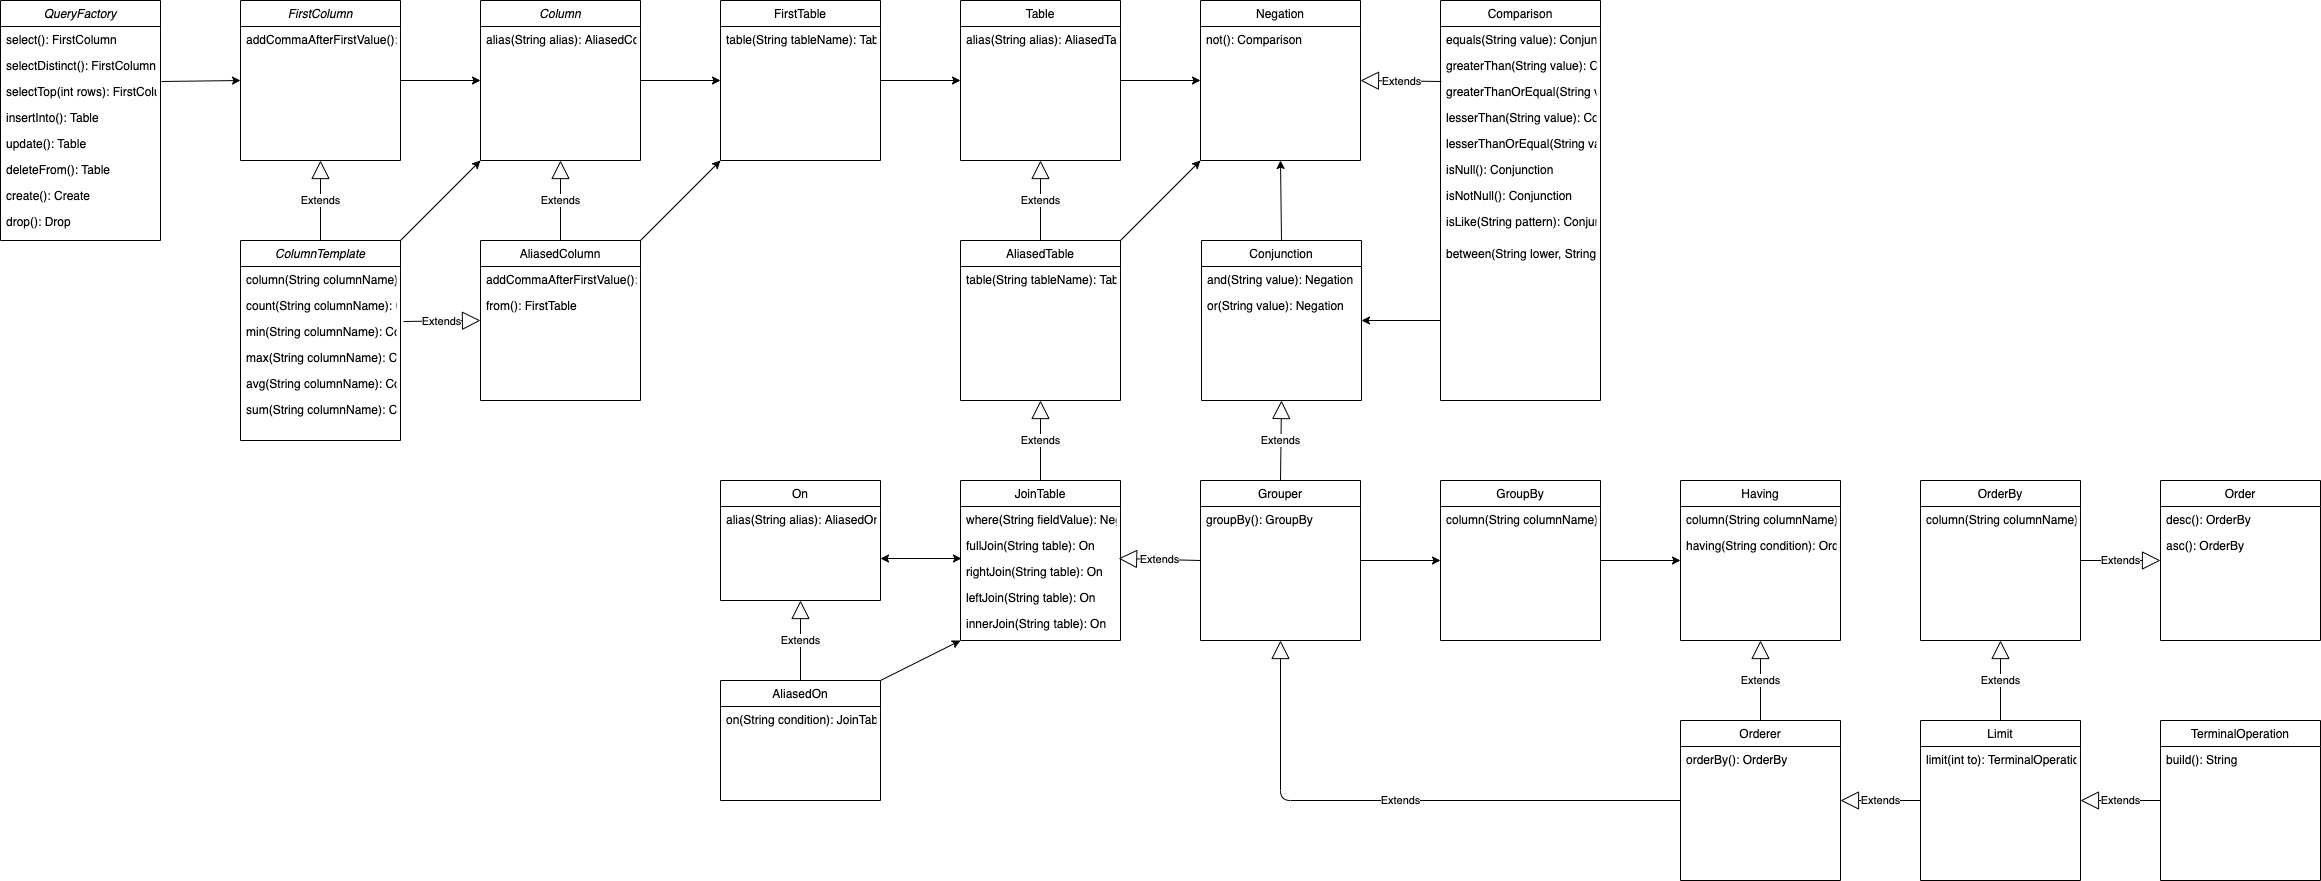
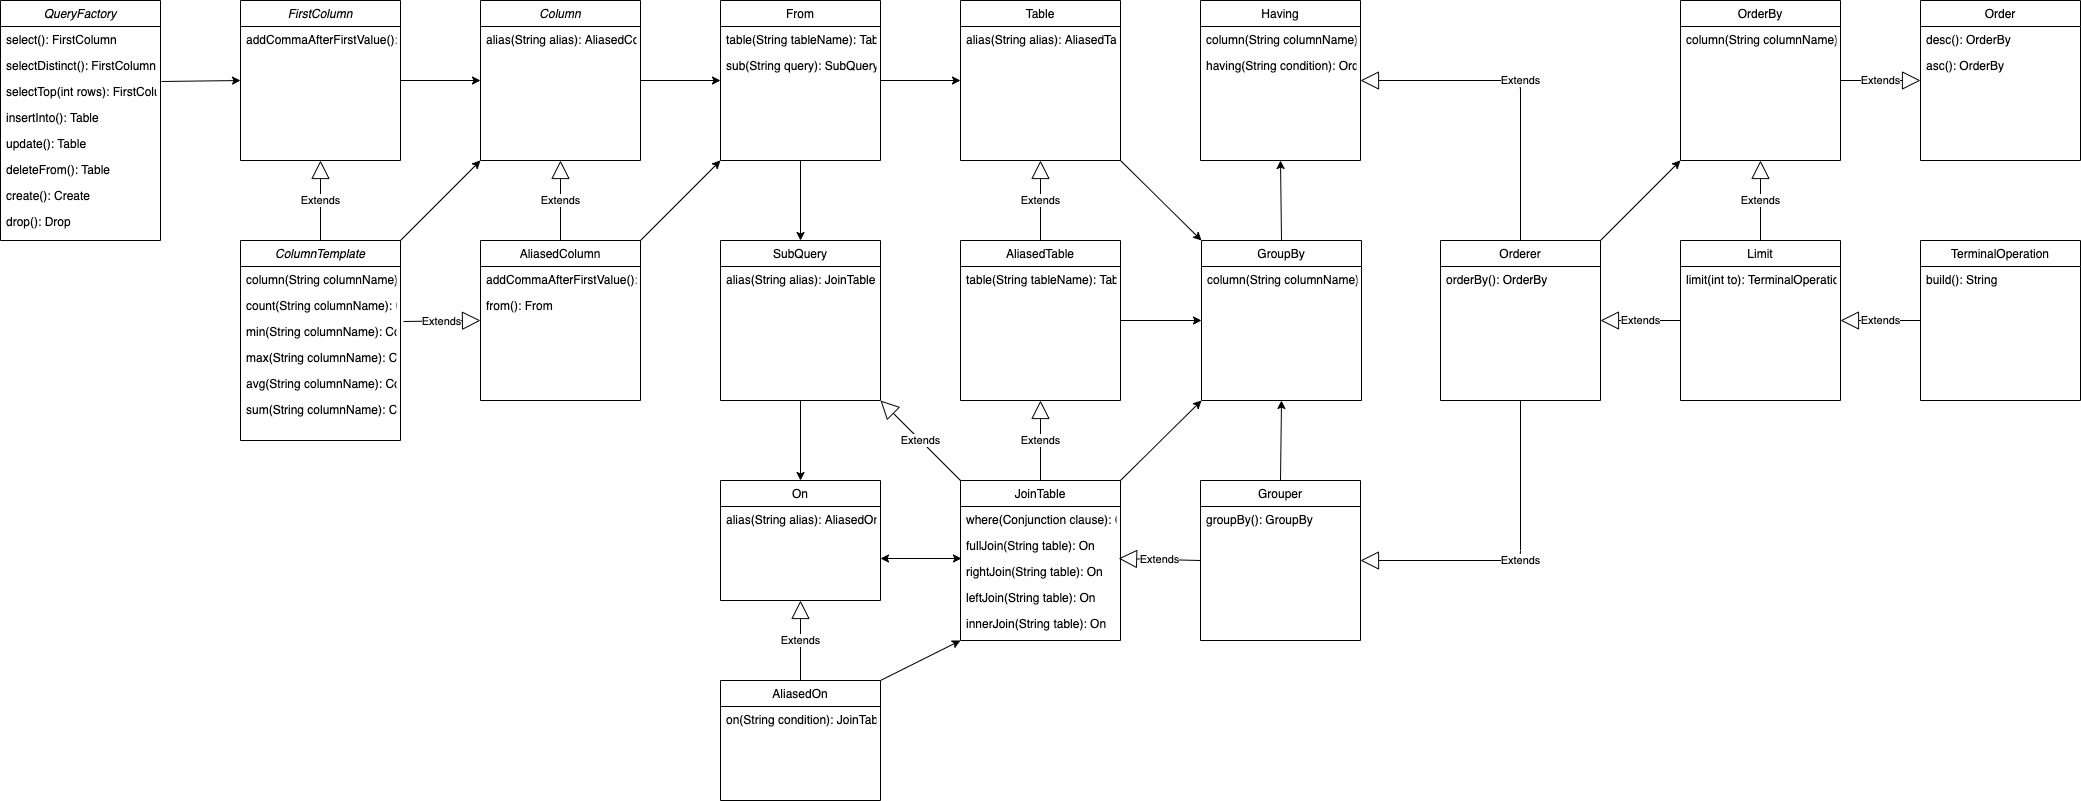
updated examples and design docs and refactored SubQuery

diff --git a/src/test/java/builder/statement/insert/InsertTest.java b/src/test/java/builder/statement/insert/InsertTest.java
@@ -61,7 +61,6 @@ public class InsertTest extends DatabaseTestBaseClass {
                         .from()
                             .table("student")
                         .where(valueOf("age").greaterThan(18))
-                        .build()
                 )
                 .build();
 
@@ -101,7 +100,6 @@ public class InsertTest extends DatabaseTestBaseClass {
                         .from()
                             .table("student")
                         .where(valueOf("age").lesserThan(18))
-                        .build()
                 )
                 .build();
 

diff --git a/src/main/java/builder/statement/select/table/From.java b/src/main/java/builder/statement/select/table/From.java
@@ -1,5 +1,6 @@
 package builder.statement.select.table;
 
+import builder.Builder;
 import builder.SQLStringBuilder;
 
 public class From extends SQLStringBuilder {
@@ -13,9 +14,9 @@ public class From extends SQLStringBuilder {
         return new Table(this.builder);
     }
 
-    public SubQuery sub(String query) {
+    public SubQuery sub(Builder query) {
         append("(");
-        append(query);
+        append(query.build());
         append(")");
         return new SubQuery(this.builder);
     }

diff --git a/src/main/java/builder/statement/insert/Column.java b/src/main/java/builder/statement/insert/Column.java
@@ -1,5 +1,6 @@
 package builder.statement.insert;
 
+import builder.Builder;
 import builder.SQLStringBuilder;
 import builder.TerminalOperation;
 
@@ -14,8 +15,8 @@ public class Column extends SQLStringBuilder {
         return new FirstValue(this.builder);
     }
 
-    public TerminalOperation sub(String query) {
-        append(query);
+    public TerminalOperation sub(Builder query) {
+        append(query.build());
         return new TerminalOperation(this.builder);
     }
 }

diff --git a/src/main/java/builder/SQLStringBuilder.java b/src/main/java/builder/SQLStringBuilder.java
@@ -24,16 +24,7 @@ public abstract class SQLStringBuilder {
         this.builder = this.builder.insert(index, value);
     }
 
-    protected int firstIndexOfRightBracket() {
-        return this.builder.indexOf(")");
-    }
-
-    protected int firstIndexOfLeftBracket() {
-        return this.builder.indexOf("(");
-    }
-
     protected int lastIndexOfRightBracket() {
         return this.builder.lastIndexOf(")");
     }
-
 }

diff --git a/src/test/java/builder/statement/select/table/TableTest.java b/src/test/java/builder/statement/select/table/TableTest.java
@@ -57,7 +57,6 @@ public class TableTest extends DatabaseTestBaseClass {
                             .from()
                                 .table("person")
                             .where(valueOf("age").greaterThan(20))
-                            .build()
                     )
                 .alias("p")
                 .build();

diff --git a/docs/examples.md b/docs/examples.md
@@ -1,0 +1,149 @@
+# Examples
+
+## SELECT
+
+Basic example:
+
+    String query = QueryFactory
+        .select()
+            .column("firstname").alias("first")
+            .column("lastname").alias("last")
+            .column("age")
+        .from()
+            .table("person")
+        .where(valueOf("age").greaterThan(18))
+        .build();
+
+    logger.info(query)
+
+Above code prints out:
+
+    SELECT firstname AS first, lastname AS last, age
+    FROM person
+    WHERE age > 18
+
+More complex example with joins:
+
+    String query = QueryFactory
+        .select()
+            .column("p.id")
+            .column("p.age")
+            .column("p.firstname").alias("name")
+            .column("c.name").alias("course")
+        .from()
+            .table("person").alias("p")
+        .leftJoin("course").alias("c")
+            .on("p.id = c.person_id")
+        .where(valueOf("p.age").greaterThan(18)
+            .and("p.age").lesserThan(65)
+            .and("c.name").isNotNull())
+        .orderBy()
+            .column("p.age").desc()
+        .limit(100)
+        .build();
+
+        logger.info(query);
+
+Above code prints out:
+
+    SELECT p.id, p.age, p.firstname AS name, c.name AS course
+    FROM person AS p
+    LEFT JOIN course AS c ON p.id = c.person_id
+    WHERE p.age > 18
+    AND p.age < 65
+    AND c.name IS NOT NULL
+    ORDER BY p.age DESC
+    LIMIT 100
+
+Example with aggregate functions:
+
+    String query = QueryFactory
+        .select()
+            .column("s.name").alias("school")
+            .avg("c.difficulty").alias("avgDifficulty")
+        .from()
+            .table("school").alias("s")
+        .innerJoin("course").alias("c").on("s.id = c.school_id")
+        .groupBy()
+            .column("school")
+        .having("avgDifficulty > 1")
+        .build();
+
+        logger.info(query);
+
+Above code prints out:
+
+    SELECT s.name AS school, AVG(c.difficulty) AS avgDifficulty
+    FROM school AS s
+    INNER JOIN course AS c ON s.id = c.school_id
+    GROUP BY school
+    HAVING avgDifficulty > 1
+
+Sub-queries can be made by using `QueryFactory` to build sub-query:
+
+    String query = QueryFactory
+        .select()
+            .column("*")
+        .from()
+            .sub(QueryFactory
+                .select()
+                    .column("*")
+                .from()
+                    .table("person")
+                .where(valueOf("age).greaterThan(20)))
+                .alias("p")
+        .build();
+
+This prints out:
+
+    SELECT *
+    FROM (
+        SELECT *
+        FROM person
+        WHERE age > 20
+    ) AS p
+
+## INSERT INTO
+
+Basic example:
+
+    String query = QueryFactory
+        .insertInto()
+            .table("person")
+                .columns("id", "birthdate", "firstname", "lastname", "age")
+            .values()
+                .value(101)
+                .value("1980-04-12")
+                .value("Miika")
+                .value("Somero")
+                .value(40)
+            .build();
+
+        logger.info(query);
+
+Prints out:
+
+    INSERT INTO person (id, birthdate, firstname, lastname, age)
+    VALUES (101, '1980-04-12', 'Miika', 'Somero', 40)
+
+Insert into select example:
+
+    String query = QueryFactory
+        .insertInto()
+            .table("person")
+            .sub(QueryFactory
+                .select()
+                    .column("*")
+                .from()
+                    .table("student")
+                .where(valueOf("age").lesserThan(18)))
+        .build();
+
+        logger.info(query);
+
+Prints out:
+
+    INSERT INTO person
+    SELECT * FROM student
+    WHERE age < 18
+        

diff --git a/README.md b/README.md
@@ -6,17 +6,16 @@ Sql query builder is Java-library used to build SQL query strings more easily.
 
 ## Examples
 
-### SELECT
-
-Basic example:
+Basic SELECT statement:
 
     String query = QueryFactory
         .select()
             .column("firstname").alias("first")
             .column("lastname").alias("last")
             .column("age")
-        .from("person")
-        .where("age").greaterThan(18)
+        .from()
+            .table("person")
+        .where(valueOf("age").greaterThan(18))
         .build();
 
     logger.info(query)
@@ -27,91 +26,7 @@ Above code prints out:
     FROM person
     WHERE age > 18
 
-More complex example with joins:
-
-    String query = QueryFactory
-                .select()
-                    .column("p.id")
-                    .column("p.age")
-                    .column("p.firstname").alias("name")
-                    .column("c.name").alias("course")
-                .from()
-                    .table("person").alias("p")
-                .leftJoin("course").alias("c")
-                    .on("p.id = c.person_id")
-                .where("p.age")
-                    .greaterThan(18)
-                .and("p.age")
-                    .lesserThan(65)
-                .and("c.name")
-                    .isNotNull()
-                .orderBy()
-                    .column("p.age").desc()
-                .limit(100)
-                .build();
-
-        logger.info(query);
-
-Above code prints out:
-
-    SELECT p.id, p.age, p.firstname AS name, c.name AS course
-    FROM person AS p
-    LEFT JOIN course AS c ON p.id = c.person_id
-    WHERE p.age > 18
-    AND p.age < 65
-    AND c.name IS NOT NULL
-    ORDER BY p.age DESC
-    LIMIT 100
-
-Example with aggregate functions:
-
-    String query = QueryFactory
-                .select()
-                    .column("s.name").alias("school")
-                    .avg("c.difficulty").alias("avgDifficulty")
-                .from()
-                    .table("school").alias("s")
-                .innerJoin("course").alias("c").on("s.id = c.school_id")
-                .groupBy()
-                    .column("school")
-                .having("avgDifficulty > 1")
-                .build();
-
-        logger.info(query);
-
-Above code prints out:
-
-    SELECT s.name AS school, AVG(c.difficulty) AS avgDifficulty
-    FROM school AS s
-    INNER JOIN course AS c ON s.id = c.school_id
-    GROUP BY school
-    HAVING avgDifficulty > 1
-
-Sub-queries can be made by using `QueryFactory` to build sub-query:
-
-    String query = QueryFactory
-                .select()
-                    .column("*")
-                .from()
-                    .sub(QueryFactory
-                            .select()
-                                .column("*")
-                            .from()
-                                .table("person")
-                            .where("age").greaterThan(20)
-                            .build()
-                    )
-                .alias("p")
-                .build();
-
-This prints out:
-
-    SELECT *
-    FROM (
-        SELECT *
-        FROM person
-        WHERE age > 20
-    ) AS p
+More examples can be found in [examples](https://github.com/MiguelSombrero/sql-query-builder/tree/develop/docs/examples.md) document.
 
 ## How to use this library
 
@@ -134,6 +49,8 @@ Check the latest version from [GitHub](https://github.com/MiguelSombrero/sql-que
 ## Documentation
 
 [Design documents](https://github.com/MiguelSombrero/sql-query-builder/tree/develop/docs/design.md)
+
+[Examples](https://github.com/MiguelSombrero/sql-query-builder/tree/develop/docs/examples.md)
 
 ## Not yet implemented
 

diff --git a/docs/design.md b/docs/design.md
@@ -4,21 +4,25 @@
 
 Starting point of the using program is static factory class `QueryFactory` found in package `main/java/factory`. 
 
-I have tried to use [builder pattern](https://en.wikipedia.org/wiki/Builder_pattern) to chain classes together. 
-This design also ensures that query builder does not allow user to build invalid SQL, e.g. `QueryFactory.select().column("firstname).alias("f").alias("f").alias() ...`.
-Therefore, there is relatively large amount of classes with minimum functionality.
+I have used [builder pattern](https://en.wikipedia.org/wiki/Builder_pattern) to chain classes together. 
 
 Arrows ----> in class diagrams represents direction the flow goes.
 For example `FirstTable` creates `Table`, but when you are in `Table`, you cannot go back to `FirstTable`.
 
+This design also ensures that query builder does not allow user to build invalid SQL, e.g. `QueryFactory.select().column("firstname).alias("f").alias("f").alias("f) ...`.
+Therefore, there is relatively large amount of classes with minimum functionality.
+
 ## Select statement
 
-`SELECT` queries is implemented in package `/main/java/builder/statement/select`. 
+`SELECT` queries is implemented in package `/main/java/builder/statement/select`.
 
 ### Class diagram
 
 ![Select_class_diagram](https://github.com/MiguelSombrero/sql-query-builder/blob/develop/docs/select-class-diagram.jpg)
 
+`WHERE` clauses is implemented with embedded query builder. You need to give an instance of `Conjunction` class to `where(Conjunction clause)` method.
+
+For Example `where(QueryFactory.valueOf("age").greaterThan(30))`.
 
 ## Where clause
 
@@ -27,6 +31,8 @@ For example `FirstTable` creates `Table`, but when you are in `Table`, you canno
 ### Class diagram
 
 ![Select_class_diagram](https://github.com/MiguelSombrero/sql-query-builder/blob/develop/docs/where-class-diagram.jpg)
+
+Where clause and its builder is used in all the statements using `WHERE` conditions.
 
 ## Insert statement
 
